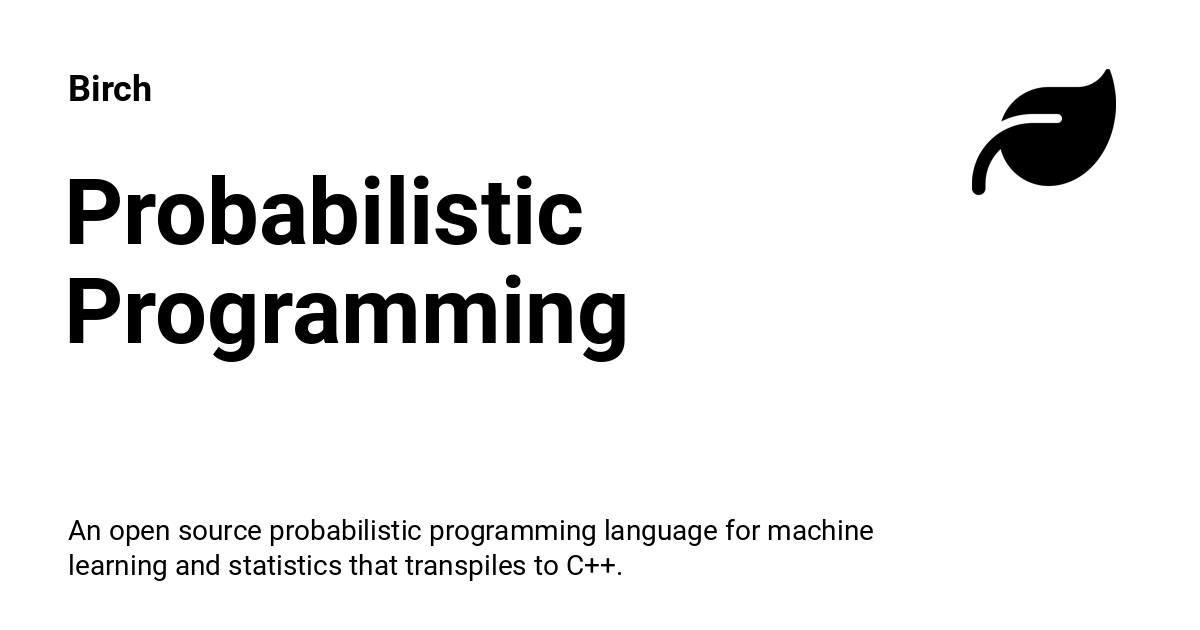
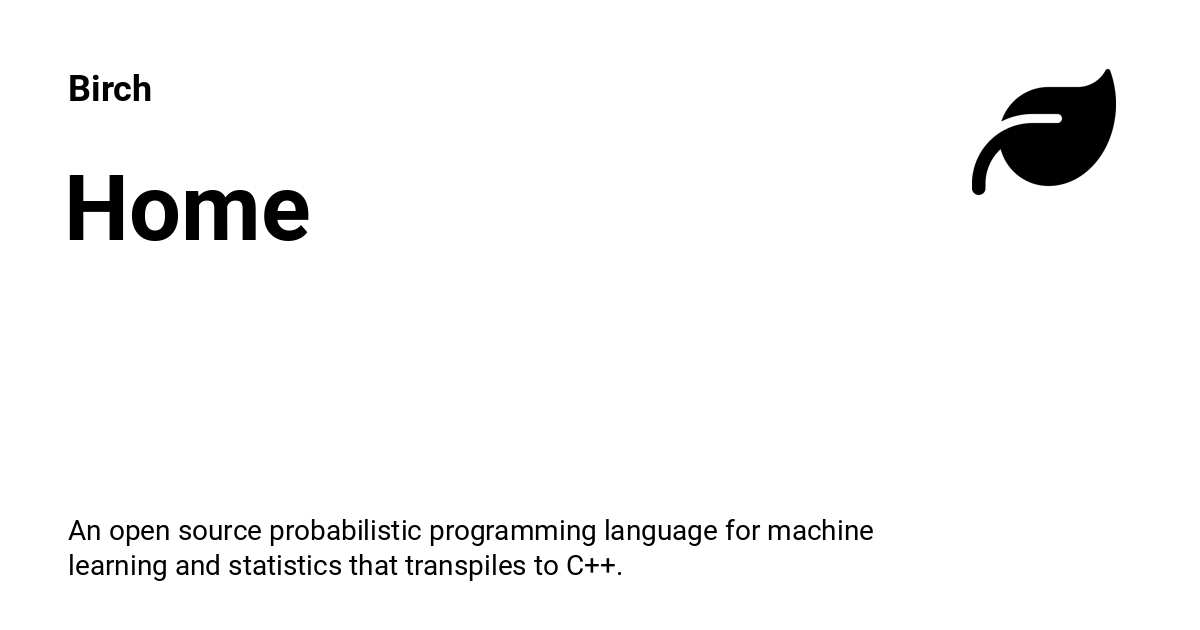
Deployed 39d92a5c with MkDocs version: 1.6.1

Changed region(s): [[0.0308, 0.4222, 0.5242, 0.573], [0.0617, 0.2714, 0.4933, 0.3921]]

diff --git a/getting-started/index.html b/getting-started/index.html
@@ -220,7 +220,7 @@
   
     
   
-  Probabilistic Programming
+  Home
 
       </a>
     </li>
@@ -392,7 +392,7 @@
         
   
   <span class="md-ellipsis">
-    Probabilistic Programming
+    Home
   </span>
   
 
@@ -1734,7 +1734,7 @@ brew<span class="w"> </span>install<span class="w"> </span>birch
       <nav class="md-footer__inner md-grid" aria-label="Footer" >
         
           
-          <a href=".." class="md-footer__link md-footer__link--prev" aria-label="Previous: Probabilistic Programming">
+          <a href=".." class="md-footer__link md-footer__link--prev" aria-label="Previous: Home">
             <div class="md-footer__button md-icon">
               
               <svg xmlns="http://www.w3.org/2000/svg" viewBox="0 0 24 24"><path d="M20 11v2H8l5.5 5.5-1.42 1.42L4.16 12l7.92-7.92L13.5 5.5 8 11z"/></svg>
@@ -1744,7 +1744,7 @@ brew<span class="w"> </span>install<span class="w"> </span>birch
                 Previous
               </span>
               <div class="md-ellipsis">
-                Probabilistic Programming
+                Home
               </div>
             </div>
           </a>

diff --git a/index.html b/index.html
@@ -68,7 +68,7 @@
     
     
       
-        <title>Probabilistic Programming - Birch</title>
+        <title>Birch</title>
       
     
     
@@ -200,7 +200,7 @@
         <div class="md-header__topic" data-md-component="header-topic">
           <span class="md-ellipsis">
             
-              Probabilistic Programming
+              Home
             
           </span>
         </div>
@@ -289,7 +289,7 @@
   
     
   
-  Probabilistic Programming
+  Home
 
       </a>
     </li>
@@ -624,7 +624,7 @@
         
   
   <span class="md-ellipsis">
-    Probabilistic Programming
+    Home
   </span>
   
 
@@ -1687,9 +1687,9 @@
                   
 
 
-  <h1>Probabilistic Programming</h1>
+  <h1>Home</h1>
 
-<hr />
+
 
 
 

diff --git a/404.html b/404.html
@@ -183,7 +183,7 @@
   
     
   
-  Probabilistic Programming
+  Home
 
       </a>
     </li>
@@ -353,7 +353,7 @@
         
   
   <span class="md-ellipsis">
-    Probabilistic Programming
+    Home
   </span>
   
 

diff --git a/about/index.html b/about/index.html
@@ -218,7 +218,7 @@
   
     
   
-  Probabilistic Programming
+  Home
 
       </a>
     </li>
@@ -390,7 +390,7 @@
         
   
   <span class="md-ellipsis">
-    Probabilistic Programming
+    Home
   </span>
   
 

diff --git a/concepts/automatic-conditioning/index.html b/concepts/automatic-conditioning/index.html
@@ -220,7 +220,7 @@
   
     
   
-  Probabilistic Programming
+  Home
 
       </a>
     </li>
@@ -392,7 +392,7 @@
         
   
   <span class="md-ellipsis">
-    Probabilistic Programming
+    Home
   </span>
   
 

diff --git a/concepts/automatic-differentiation/index.html b/concepts/automatic-differentiation/index.html
@@ -220,7 +220,7 @@
   
     
   
-  Probabilistic Programming
+  Home
 
       </a>
     </li>
@@ -392,7 +392,7 @@
         
   
   <span class="md-ellipsis">
-    Probabilistic Programming
+    Home
   </span>
   
 

diff --git a/concepts/automatic-marginalization/index.html b/concepts/automatic-marginalization/index.html
@@ -220,7 +220,7 @@
   
     
   
-  Probabilistic Programming
+  Home
 
       </a>
     </li>
@@ -392,7 +392,7 @@
         
   
   <span class="md-ellipsis">
-    Probabilistic Programming
+    Home
   </span>
   
 

diff --git a/concepts/delayed-sampling/index.html b/concepts/delayed-sampling/index.html
@@ -220,7 +220,7 @@
   
     
   
-  Probabilistic Programming
+  Home
 
       </a>
     </li>
@@ -392,7 +392,7 @@
         
   
   <span class="md-ellipsis">
-    Probabilistic Programming
+    Home
   </span>
   
 

diff --git a/concepts/distributions/index.html b/concepts/distributions/index.html
@@ -220,7 +220,7 @@
   
     
   
-  Probabilistic Programming
+  Home
 
       </a>
     </li>
@@ -392,7 +392,7 @@
         
   
   <span class="md-ellipsis">
-    Probabilistic Programming
+    Home
   </span>
   
 

diff --git a/concepts/expressions/index.html b/concepts/expressions/index.html
@@ -220,7 +220,7 @@
   
     
   
-  Probabilistic Programming
+  Home
 
       </a>
     </li>
@@ -392,7 +392,7 @@
         
   
   <span class="md-ellipsis">
-    Probabilistic Programming
+    Home
   </span>
   
 

diff --git a/concepts/graphical-models/index.html b/concepts/graphical-models/index.html
@@ -220,7 +220,7 @@
   
     
   
-  Probabilistic Programming
+  Home
 
       </a>
     </li>
@@ -392,7 +392,7 @@
         
   
   <span class="md-ellipsis">
-    Probabilistic Programming
+    Home
   </span>
   
 

diff --git a/concepts/index.html b/concepts/index.html
@@ -220,7 +220,7 @@
   
     
   
-  Probabilistic Programming
+  Home
 
       </a>
     </li>
@@ -392,7 +392,7 @@
         
   
   <span class="md-ellipsis">
-    Probabilistic Programming
+    Home
   </span>
   
 
